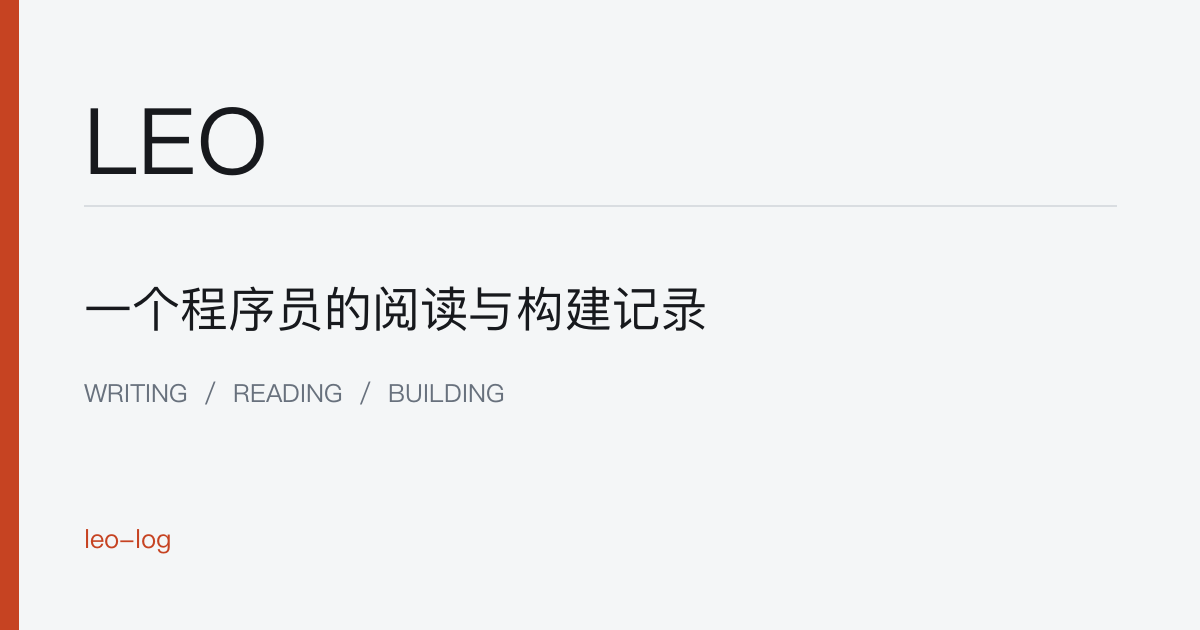
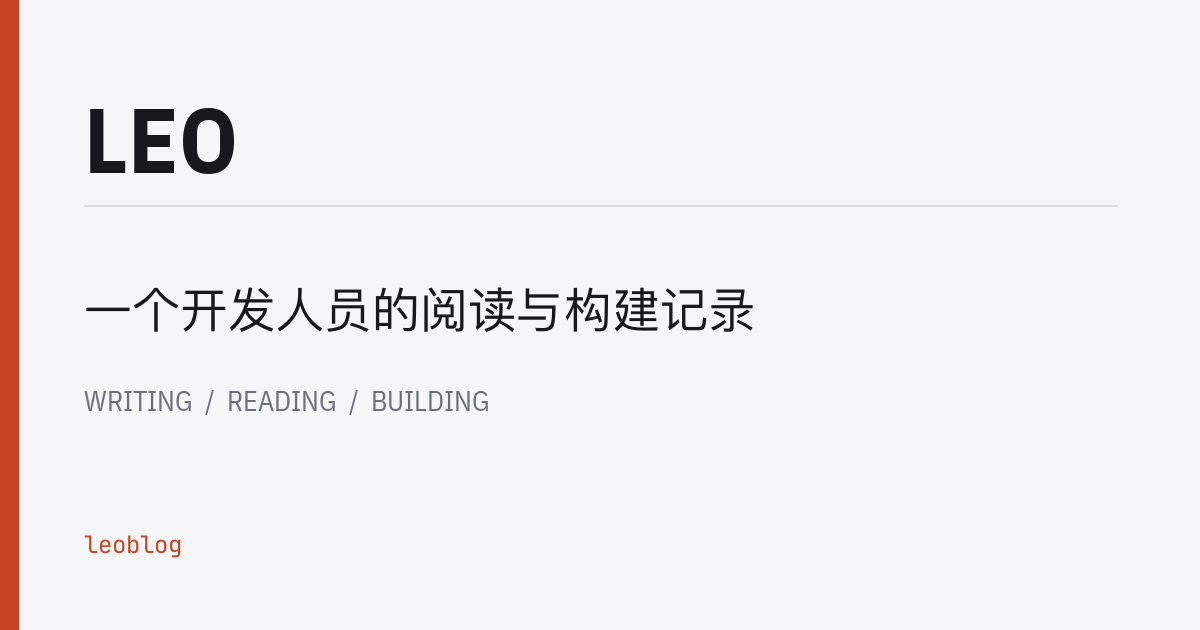
chore: personalize site profile

diff --git a/src/config/site.ts b/src/config/site.ts
@@ -1,0 +1,48 @@
+export const SITE = {
+  displayName: 'Leo',
+  logoText: 'LEO',
+  titleSuffix: 'Personal Log',
+  role: '开发者',
+  tagline: '一个开发人员的阅读与构建记录',
+  intro: '我喜欢把复杂的问题拆开，也喜欢通过写作检查自己的判断。这个网站记录我读过的书、做过的项目，以及一些还没有想明白的事情。',
+  description: '一个开发者的阅读、写作与项目构建记录。',
+  locale: 'zh-CN',
+  timezone: 'Asia/Shanghai',
+  contact: {
+    email: 'imchenxing42@gmail.com',
+    githubUsername: 'Merthon',
+    githubUrl: 'https://github.com/Merthon',
+    extraLink: {
+      label: 'X',
+      url: 'https://x.com/merthon42',
+    },
+  },
+  now: {
+    updatedAt: '2026-08-30',
+    updateRhythm: '通常在周末更新',
+    doing: ['完善网站', '整理过去的读书笔记'],
+    reading: [] as string[],
+    focuses: ['AI前沿知识', '知识管理'],
+    plans: ['完成第一版网站', '写完项目复盘'],
+    aboutSite: '它不是作品陈列柜，而是一份持续维护的个人记录。',
+    principles: ['内容属于自己', '链接长期有效', '设计保持克制'],
+  },
+  project: {
+    name: 'leoblog',
+    status: '正在构建',
+    repositoryUrl: 'git@github.com:Merthon/leoblog.git',
+    description: '用于长期保存写作、阅读记录与项目复盘的个人网站。',
+  },
+} as const;
+
+export const SITE_TITLE = `${SITE.displayName} / ${SITE.titleSuffix}`;
+export const DISPLAY_UPDATED_AT = SITE.now.updatedAt.replaceAll('-', '.');
+
+const withDoingPrefix = (item: string) => item.startsWith('正在') ? item : `正在${item}`;
+const withReadingPrefix = (item: string) => item.startsWith('正在') ? item : `正在读${item}`;
+
+export const CURRENT_STATUS = [
+  ...SITE.now.doing.map((item, index) => ({ text: withDoingPrefix(item), current: index === 0 })),
+  ...SITE.now.reading.map((item) => ({ text: withReadingPrefix(item), current: false })),
+  ...(SITE.now.updateRhythm ? [{ text: SITE.now.updateRhythm, current: false }] : []),
+].slice(0, 3);

diff --git a/src/pages/rss.xml.ts b/src/pages/rss.xml.ts
@@ -1,12 +1,13 @@
 import rss from '@astrojs/rss';
 import type { APIContext } from 'astro';
 import { getPublishedWriting } from '../lib/content';
+import { SITE, SITE_TITLE } from '../config/site';
 
 export async function GET(context: APIContext) {
   const entries = await getPublishedWriting();
   return rss({
-    title: 'Leo / Personal Log',
-    description: '一个程序员的阅读与构建记录。',
+    title: SITE_TITLE,
+    description: SITE.description,
     site: context.site ?? 'https://example.com',
     items: entries.map((entry) => ({
       title: entry.data.title,

diff --git a/README.md b/README.md
@@ -1,6 +1,6 @@
-# leo-log
+# leoblog
 
-一个程序员的阅读与构建记录。项目使用 Astro、TypeScript 和 Content Collections 构建，默认输出纯静态站点，计划通过 Vercel 与 Git 仓库自动部署。
+一个开发人员的阅读与构建记录。项目使用 Astro、TypeScript 和 Content Collections 构建，默认输出纯静态站点，通过 Vercel 与 Git 仓库自动部署。
 
 ## 技术栈
 
@@ -59,14 +59,14 @@ docs/design/
 
 ## 部署到 Vercel
 
-初版确认后再创建 Git 仓库。仓库创建并推送后：
+仓库已经推送到 GitHub，接下来：
 
 1. 在 Vercel 中选择 **Add New → Project**。
 2. 导入 GitHub 仓库。
 3. Framework Preset 选择 **Astro**（通常会自动识别）。
 4. Build Command 使用 `pnpm build`。
 5. Output Directory 使用 `dist`。
-6. 添加环境变量：
+6. 可选：添加环境变量覆盖自动识别的生产地址：
 
    ```text
    SITE_URL=https://你的正式域名
@@ -74,10 +74,9 @@ docs/design/
 
 7. 部署完成后，后续推送到生产分支会自动发布；其他分支和 Pull Request 会生成预览部署。
 
-`SITE_URL` 会用于 canonical、RSS、robots.txt 和 sitemap。正式部署前务必替换示例联系人：
+`SITE_URL` 会用于 canonical、RSS、robots.txt 和 sitemap。未设置时，构建会优先读取 Vercel 的 `VERCEL_PROJECT_PRODUCTION_URL`；本地构建则使用示例地址。
 
-- `leo@example.com`
-- `github.com/leo`
+个人资料、联系方式与 NOW 状态统一维护在 `src/config/site.ts`。
 
 ## 目录概览
 
@@ -94,4 +93,4 @@ src/
 └── styles/
 ```
 
-当前项目尚未初始化 Git。
+GitHub 仓库：`git@github.com:Merthon/leoblog.git`。

diff --git a/src/content/projects/leo-log.md b/src/content/projects/leo-log.md
@@ -1,10 +1,11 @@
 ---
-title: leo-log
-description: 一个用于长期写作、阅读记录与项目复盘的个人网站。
+title: leoblog
+description: 用于长期保存写作、阅读记录与项目复盘的个人网站。
 status: building
 stack: [Astro, TypeScript, MDX]
 startedAt: 2026-08-21
-updatedAt: 2026-08-29
+updatedAt: 2026-08-30
+repository: https://github.com/Merthon/leoblog
 problem: 如何长期保存写作、阅读记录与项目复盘。
 decisions: [内容优先, 静态生成, 保持可迁移]
 featured: true
@@ -12,7 +13,7 @@ relatedWriting: [why-personal-website, how-to-write-complex-problems]
 relatedReadings: [philosophy-of-software-design]
 ---
 
-leo-log 是这个网站本身，也是一次关于长期维护的实践。
+leoblog 是这个网站本身，也是一次关于长期维护的实践。
 
 ## 目标
 

diff --git a/src/content/reading/placing-oneself-amid-the-goings-on.md b/src/content/reading/placing-oneself-amid-the-goings-on.md
@@ -1,7 +1,7 @@
 ---
 title: 《置身事内》
 author: 兰小欢
-status: reading
+status: paused
 progress: 68
 startedAt: 2026-08-20
 publishedAt: 2026-08-28
